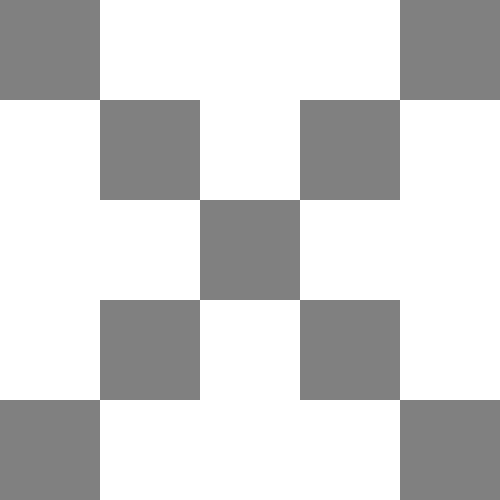
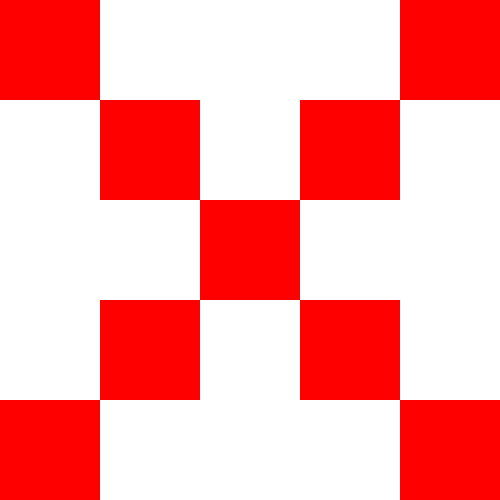
all done

diff --git a/challenge_090/easy/walkaroundRasterizer/walkaroundRasterizer/Rasterizer.cs b/challenge_090/easy/walkaroundRasterizer/walkaroundRasterizer/Rasterizer.cs
@@ -53,15 +53,16 @@ namespace walkaroundRasterizer {
         /// <param name="row">total rows on grid</param>
         /// <param name="column">total columns on grid</param>
         /// <param name="instructions">walkaround rasterizer instructions</param>
+        /// <param name="color">color to draw</param>
         /// <param name="output">output file name</param>
-        public void Rasterize(int row, int column, string instructions, string output = "testRasterizer.png") { 
+        public void Rasterize(int row, int column, string instructions, Color color, string output = "testRasterizer.png") { 
         
             using(var image = new Bitmap(row * PixelWidth, column * PixelWidth)) {
 
                 using(var drawer = Graphics.FromImage(image)) {
                     //fill entire background with white
                     drawer.Clear(Color.White);
-                    var brush = new SolidBrush(Color.Gray);
+                    var brush = new SolidBrush(color);
 
                     foreach(char instruction in instructions.ToLower()) {
 

diff --git a/challenge_090/easy/walkaroundRasterizer/walkaroundRasterizer/Program.cs b/challenge_090/easy/walkaroundRasterizer/walkaroundRasterizer/Program.cs
@@ -11,13 +11,13 @@ namespace walkaroundRasterizer {
 
             //challenge input
             var rasterizer = new Rasterizer();
-            rasterizer.Rasterize(5, 5, "PESPESPESPESPNNNNPWSPWSPWSPWSP");
+            rasterizer.Rasterize(5, 5, "PESPESPESPESPNNNNPWSPWSPWSPWSP", Color.Gray);
             //bonus input
             var derasterizer = new Derasterizer();
             string result = derasterizer.Derasterize("testRasterizer.png", 5, 5);
             Console.WriteLine(result);
             //test bonus
-            rasterizer.Rasterize(5, 5, result, "testDerasterizer.png");
+            rasterizer.Rasterize(5, 5, result, Color.Red, "testDerasterizer.png");
         }
     }
 }
